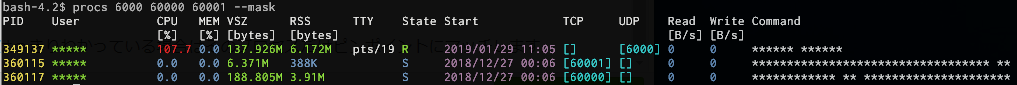
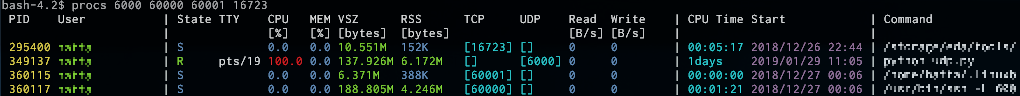
Update README

diff --git a/README.md b/README.md
@@ -38,25 +38,25 @@ Type `procs` only. It shows the information of all processes.
 $ procs
 ```
 
-![procs](https://user-images.githubusercontent.com/4331004/51904370-d5ad9180-2401-11e9-837c-ae4859c8fa82.png)
+![procs](https://user-images.githubusercontent.com/4331004/51976289-9f3a4a00-24c7-11e9-8573-8f746ccf1ed4.png)
 
 If you add any keyword as argument, it is matched to `USER` or `Command` by default.
-( `--mask` option is used to mask `USER`/`Command` information, actually not required )
 
 ```console
-$ procs zsh --mask
+$ procs zsh
 ```
 
-![procs_zsh](https://user-images.githubusercontent.com/4331004/51904402-e827cb00-2401-11e9-8a9c-45159686080d.png)
+![procs_zsh](https://user-images.githubusercontent.com/4331004/51976319-b24d1a00-24c7-11e9-8060-09e71d18e5ec.png)
 
 If a numeric is used as the keyword, it is matched to `PID`, `TCP`, `UDP` by default.
 Numeric is treated as exact match, and non-numeric is treated as partial match by default.
 
 ```console
-$ procs 6000 60000 60001 --mask
+$ procs 6000 60000 60001 16723
 ```
 
-![procs_port](https://user-images.githubusercontent.com/4331004/51904423-f5dd5080-2401-11e9-8d02-756e33a9b7bc.png)
+![procs_port](https://user-images.githubusercontent.com/4331004/51976347-c09b3600-24c7-11e9-8d40-2c437efbd5e1.png)
+
 
 ## Configuration
 
